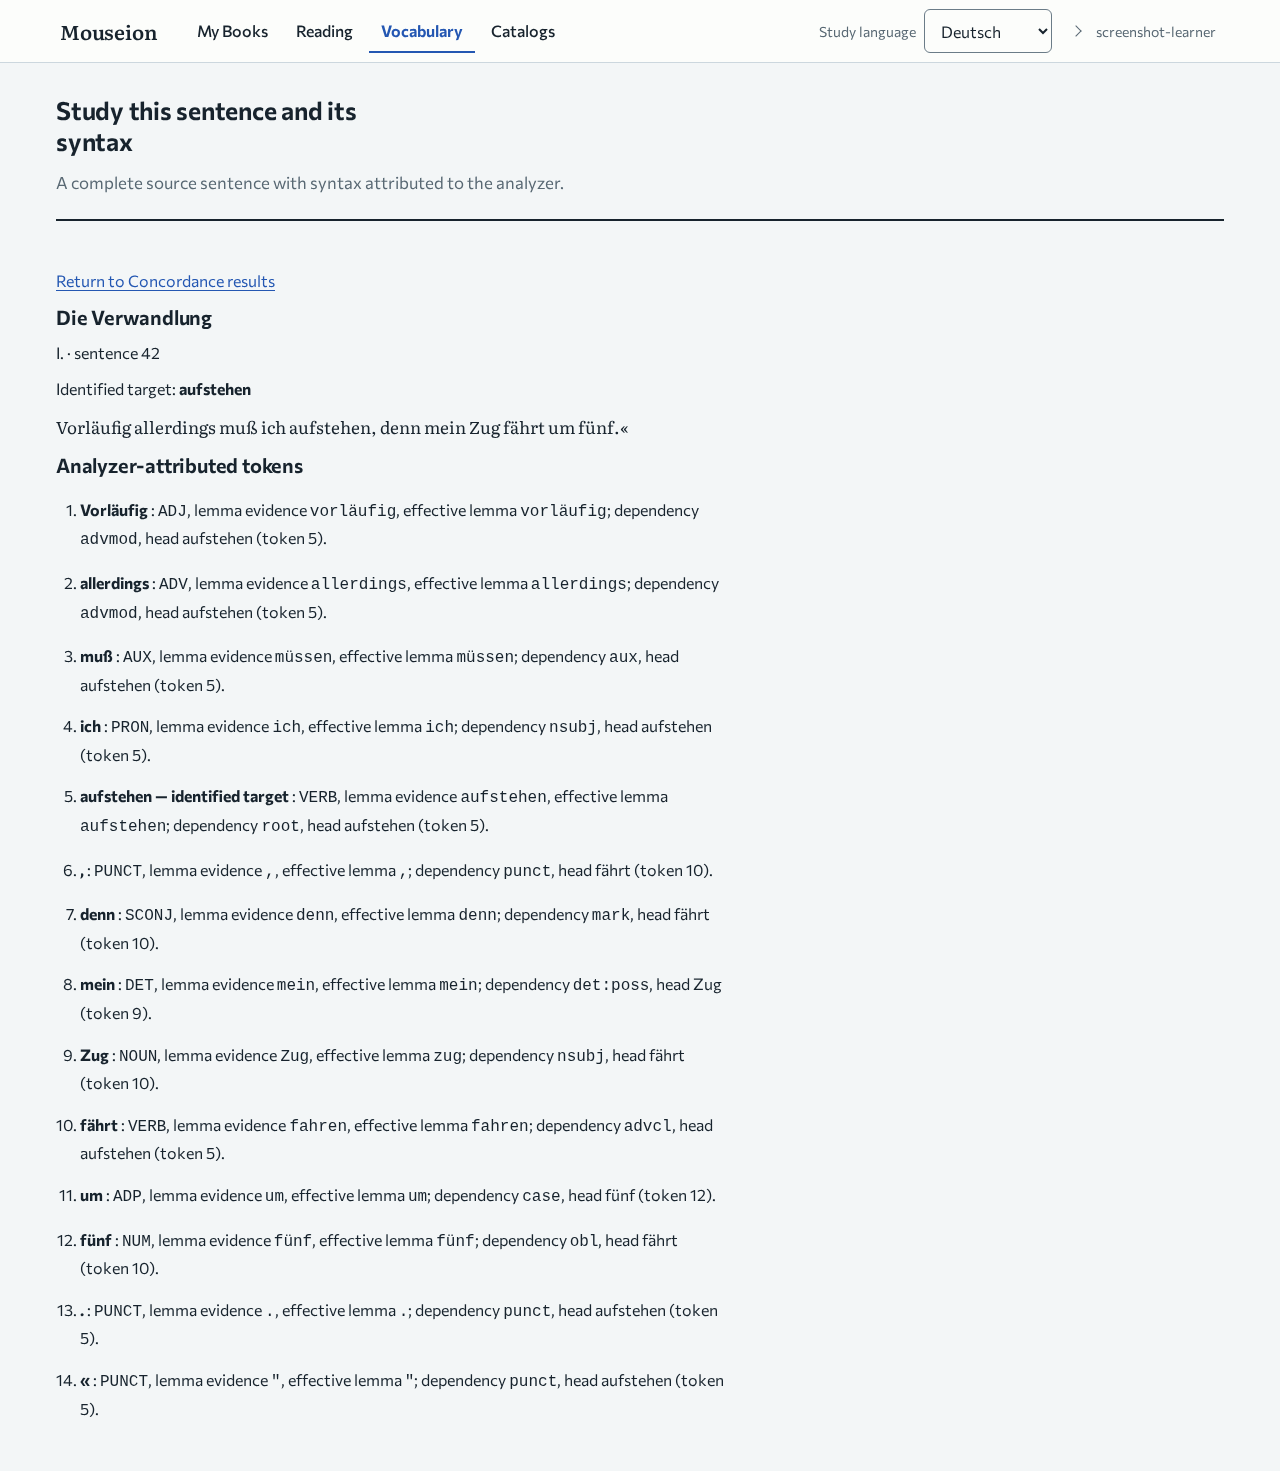
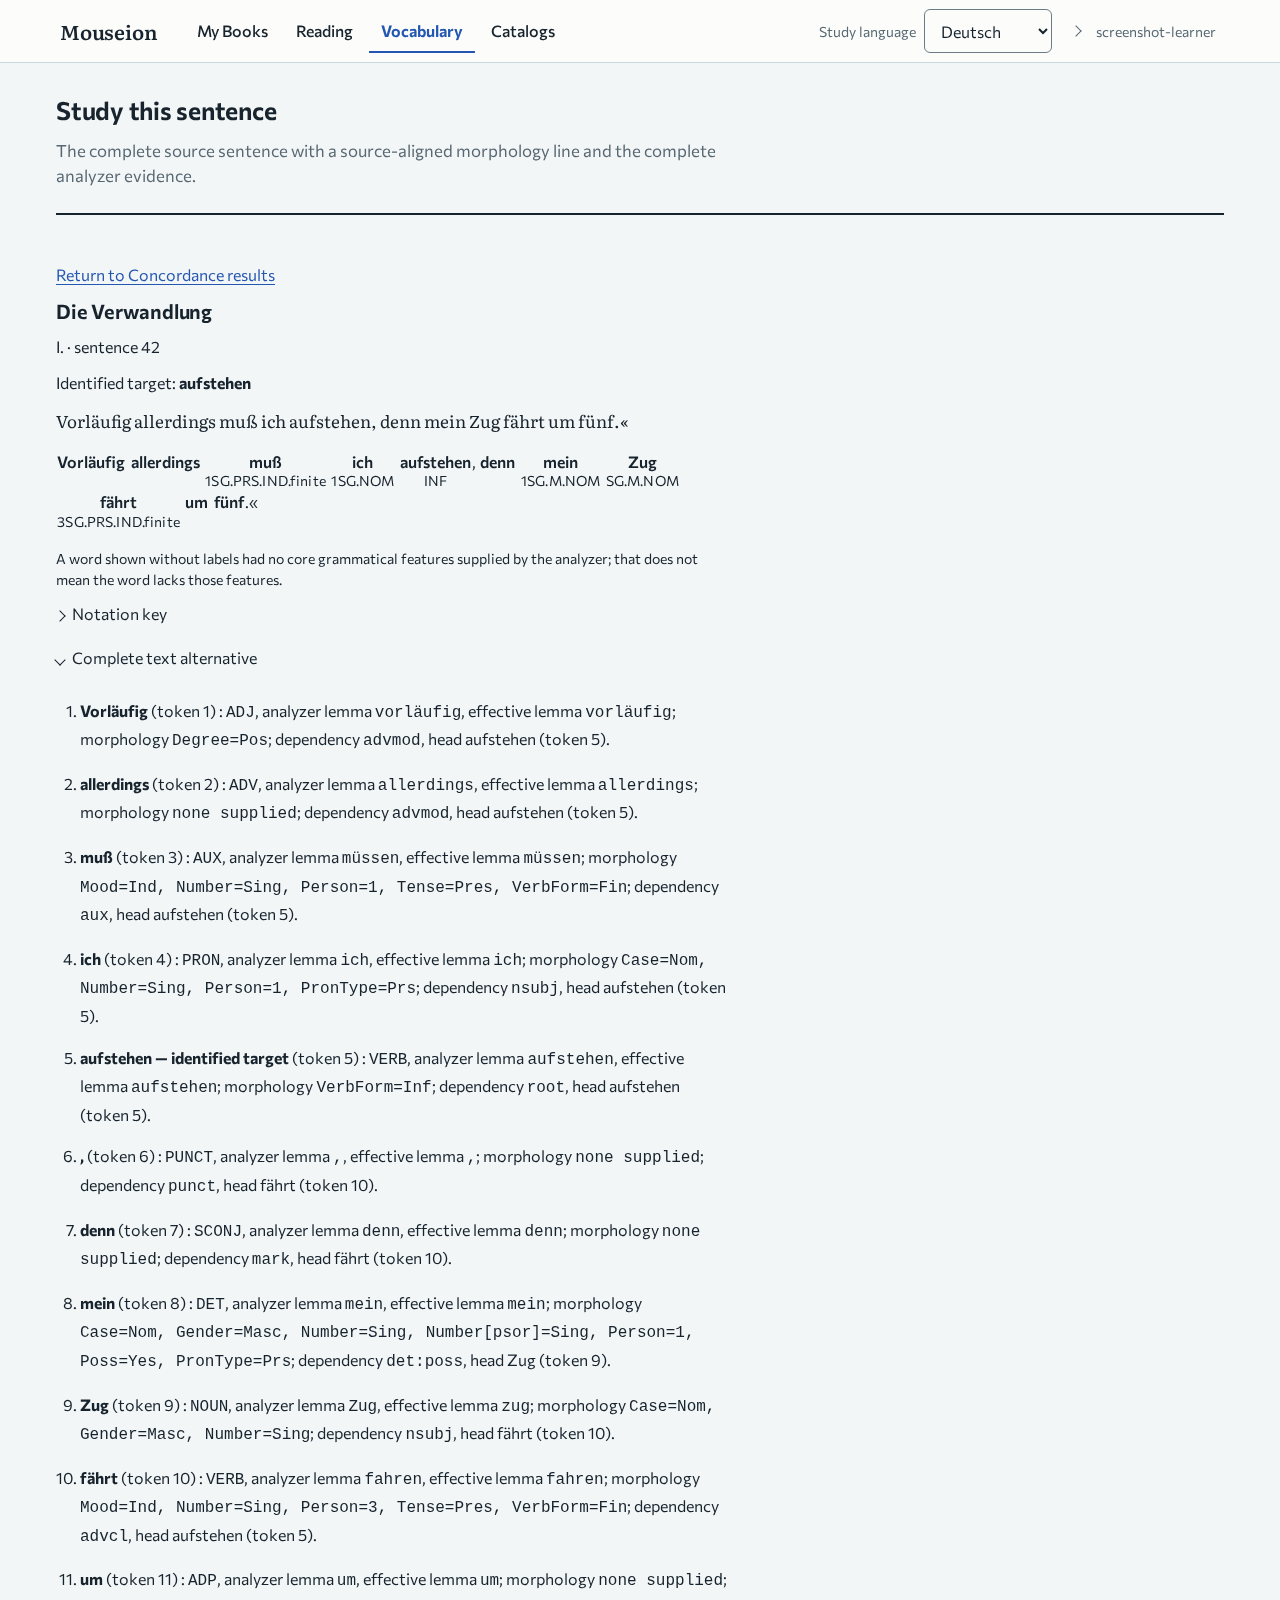
docs(readme): refresh the Sentence study screenshot for the morphology-first view (#2002)

diff --git a/README.md b/README.md
@@ -69,9 +69,9 @@ editions, and every author died before 1956. The run is reproducible with
 
 *Concordance: every analyzed occurrence of a lemma's forms across the learner's books, in context.*
 
-![Sentence study of "Vorläufig allerdings muß ich aufstehen, denn mein Zug fährt um fünf.", with the complete text alternative open and each analyzed word's part of speech, analyzer and effective lemma, stored morphology, and dependency relation.](doc/images/sentence-study.png)
+![Sentence study of "Vorläufig allerdings muß ich aufstehen, denn mein Zug fährt um fünf.", with a source-aligned interlinear morphology line above the sentence and the complete text alternative open, listing each analyzed word's part of speech, analyzer and effective lemma, stored morphology, and dependency relation.](doc/images/sentence-study.png)
 
-*Sentence study: one sentence parsed token by token, with its lemma and dependency evidence.*
+*Sentence study: an interlinear morphology line for each word, with the complete analyzer evidence in a named disclosure.*
 
 ![My Books in the dark color scheme, showing the same library and workflow stages as the light view.](doc/images/my-books-dark.png)
 
